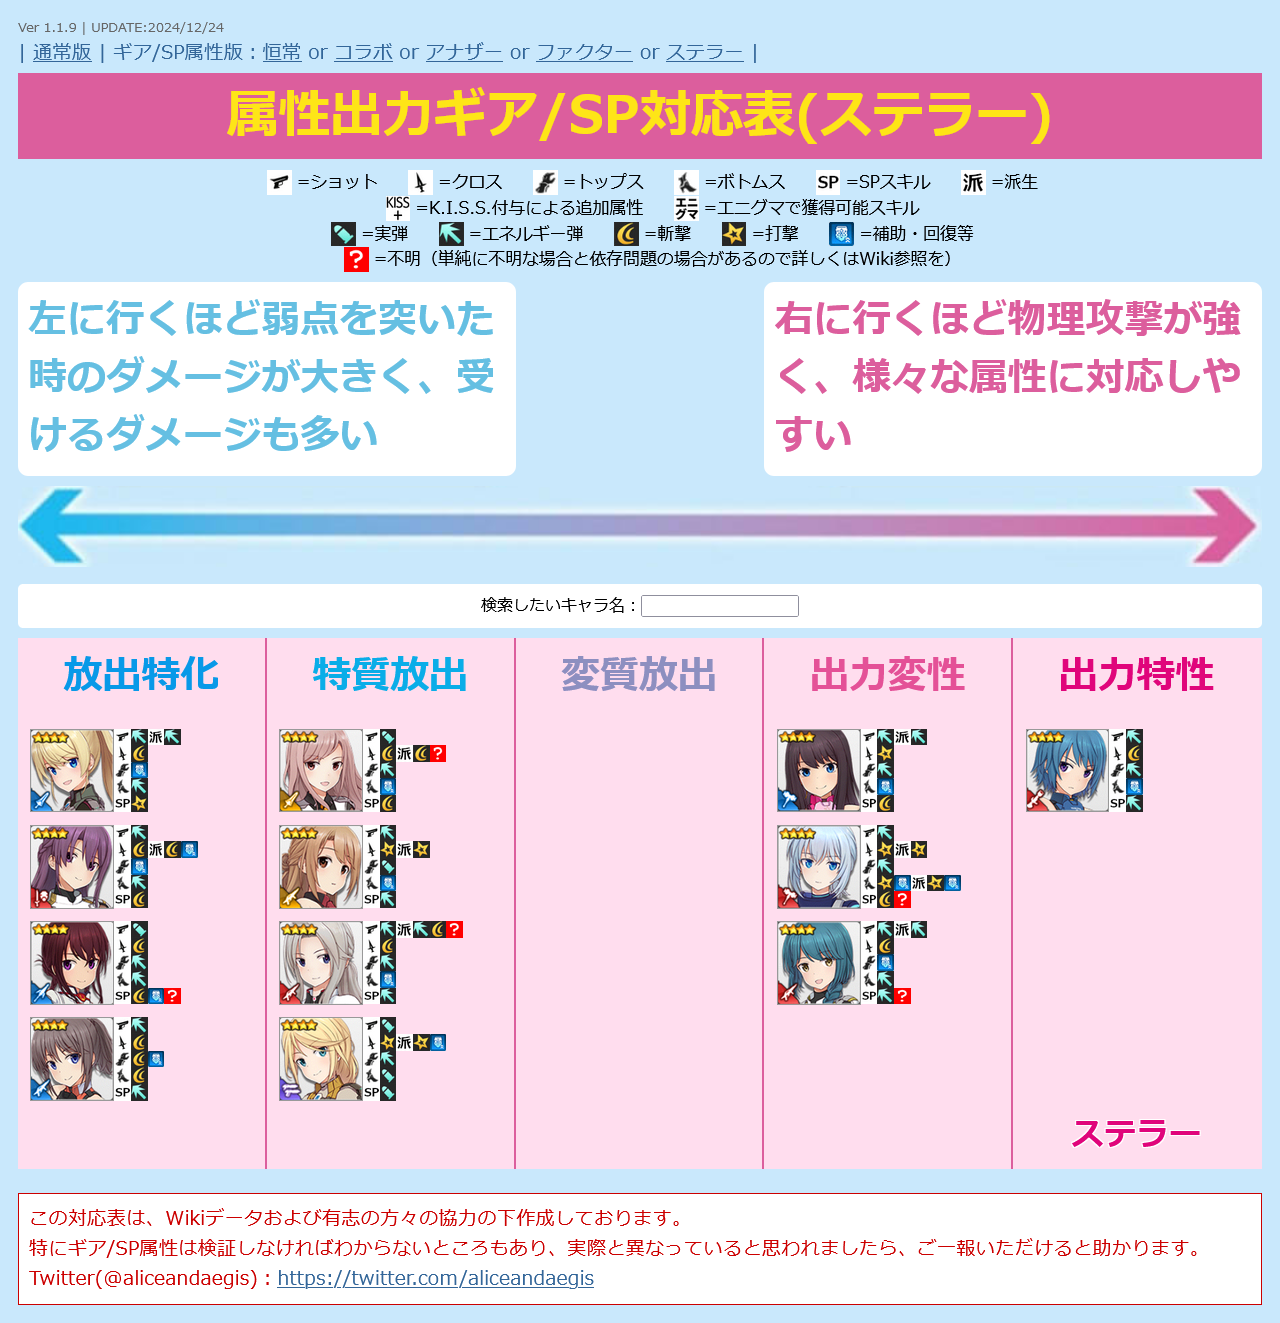
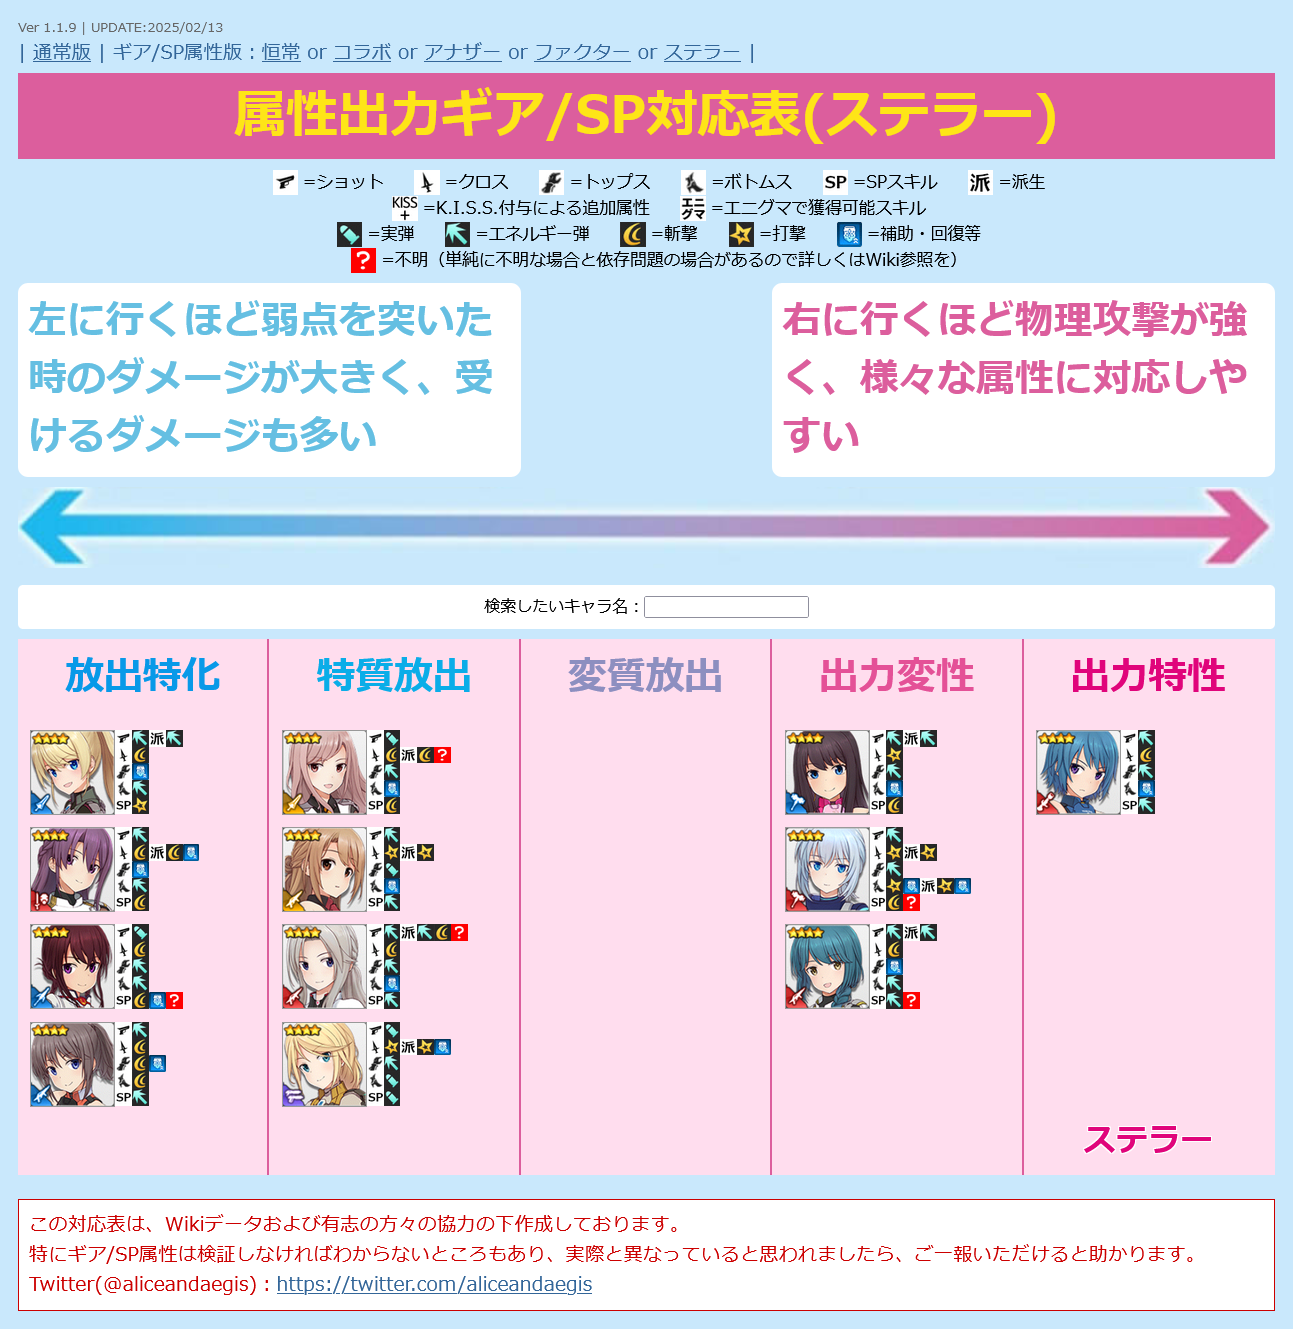
UPDATE charadata
・アナザー 巽 竜子 / 霹靂を追加

diff --git a/alice.html b/alice.html
@@ -12,7 +12,7 @@
   <script>
 
 /* 更新情報 必要に応じて書き換えてください */
-  var version = "Ver 1.1.9 | UPDATE:2025/01/22";
+  var version = "Ver 1.1.9 | UPDATE:2025/02/13";
 
 
 /*
@@ -1362,7 +1362,7 @@
       "equip2": "3",
       "equip3": "2",
       "equip4": "2",
-      "sp": "35?",
+      "sp": "35?|1",
       "attr": "1",
       "link": "https://wikiwiki.jp/alicegear/%E9%87%91%E6%BD%9F%E3%81%99%E3%81%90%E3%81%BF/%E3%82%AF%E3%83%AA%E3%82%A8%E3%82%A4%E3%83%88",
       "category": "11"
@@ -1404,7 +1404,7 @@
       "equip2": "3",
       "equip3": "5/2",
       "equip4": "2",
-      "sp": "25?",
+      "sp": "25?|35",
       "attr": "2",
       "link": "https://wikiwiki.jp/alicegear/%E6%96%B0%E5%B1%85%E7%9B%AE%E5%AE%89%E9%87%8C/%E3%82%AF%E3%83%AA%E3%82%A8%E3%82%A4%E3%83%88",
       "category": "11"
@@ -2234,6 +2234,20 @@
       "attr": "2",
       "link": "https://wikiwiki.jp/alicegear/%E5%B7%BD%E7%AB%9C%E5%AD%90",
       "category": ""
+    },
+    {
+      "id": "60",
+      "type": "1",
+      "src": "another-ryuko.png",
+      "name": "巽 竜子 / 霹靂",
+      "equip1": "2",
+      "equip2": "3",
+      "equip3": "5",
+      "equip4": "35?",
+      "sp": "3?",
+      "attr": "2",
+      "link": "https://wikiwiki.jp/alicegear/%E5%B7%BD%E7%AB%9C%E5%AD%90%E9%9C%B9%E9%9D%82",
+      "category": "10"
     },
     {
       "id": "61",
